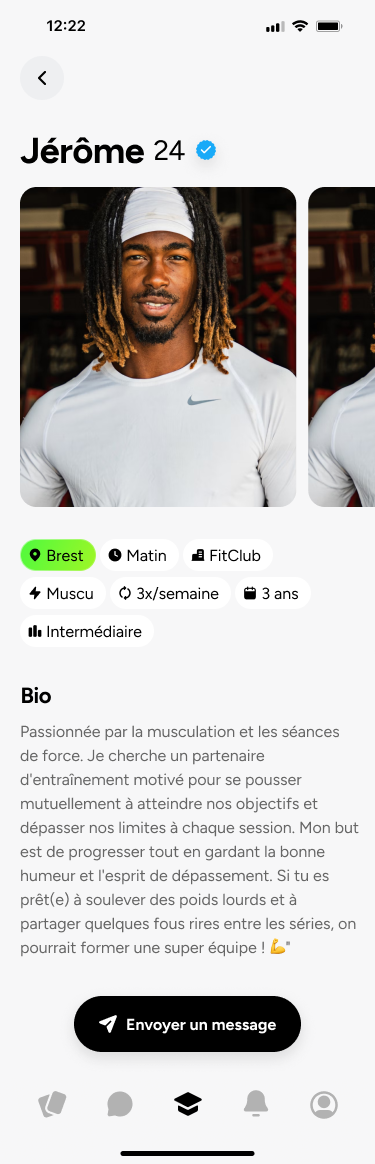
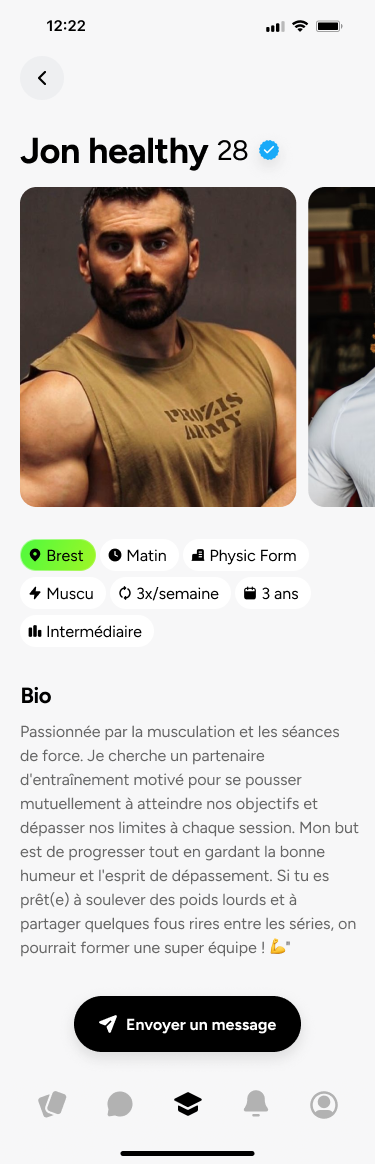
fix(site): correction z-index glassmorphism, mockup hero, adresse mentions légales
- z-index blobs passé à 1, contenu à 2 pour que backdrop-filter floute les blobs
- Fond arg-card réduit à 0.03 pour laisser passer la couleur des blobs
- Mockup hero remplacé par mockup-intro.png
- Adresse ajoutée dans mentions légales (435 rue Lucie et Raymond Aubrac, Guipavas)
- Mockups coach mis à jour

Changed region(s): [[0.0293, 0.0928, 0.792, 0.433], [0.5573, 0.4639, 0.792, 0.4948]]

diff --git a/index.html b/index.html
@@ -64,7 +64,7 @@
     .hero-blob {
       position: absolute;
       pointer-events: none;
-      z-index: 0;
+      z-index: 1;
     }
     .hero-blob--1 {
       width: 500px; height: 500px;
@@ -107,7 +107,7 @@
 
     .hero-inner {
       position: relative;
-      z-index: 1;
+      z-index: 2;
       max-width: 1200px;
       width: 100%;
       display: flex;
@@ -438,7 +438,7 @@
     .section-blob {
       position: absolute;
       pointer-events: none;
-      z-index: 0;
+      z-index: 1;
     }
     .section--dark {
       position: relative;
@@ -446,7 +446,7 @@
     }
     .section--dark .section-inner {
       position: relative;
-      z-index: 1;
+      z-index: 2;
     }
 
     /* "Pourquoi MyGymBro" blobs — positioned UNDER the cards grid */
@@ -530,28 +530,26 @@
     .arg-card {
       padding: 32px 28px;
       border-radius: 20px;
-      background: rgba(255, 255, 255, 0.04);
-      border: 1px solid rgba(255, 255, 255, 0.15);
-      box-shadow: 0 8px 32px rgba(0, 0, 0, 0.3), inset 0 1px 0 rgba(255, 255, 255, 0.12);
+      background: rgba(255, 255, 255, 0.03);
+      border: 1px solid rgba(255, 255, 255, 0.12);
+      box-shadow: 0 8px 32px rgba(0, 0, 0, 0.25), inset 0 1px 0 rgba(255, 255, 255, 0.10);
       transition: transform 0.3s, box-shadow 0.3s, border-color 0.3s;
-      position: relative;
-      z-index: 1;
     }
     @supports (backdrop-filter: blur(1px)) {
       .arg-card {
-        backdrop-filter: blur(16px) saturate(160%);
-        -webkit-backdrop-filter: blur(16px) saturate(160%);
+        backdrop-filter: blur(16px) saturate(150%);
+        -webkit-backdrop-filter: blur(16px) saturate(150%);
       }
     }
     @supports not (backdrop-filter: blur(1px)) {
       .arg-card {
-        background: rgba(30, 30, 30, 0.92);
+        background: rgba(30, 30, 30, 0.90);
       }
     }
     .arg-card:hover {
+      border-color: rgba(255, 255, 255, 0.22);
+      background: rgba(255, 255, 255, 0.05);
       transform: translateY(-4px) scale(1.02);
-      border-color: rgba(255, 255, 255, 0.25);
-      box-shadow: 0 8px 32px rgba(0, 0, 0, 0.3), 0 0 20px rgba(50, 205, 50, 0.08), inset 0 1px 0 rgba(255, 255, 255, 0.15);
     }
     .arg-icon {
       width: 48px;
@@ -667,7 +665,7 @@
       justify-content: center;
       gap: 60px;
       position: relative;
-      z-index: 1;
+      z-index: 2;
     }
     .cta-text {
       max-width: 480px;
@@ -829,6 +827,9 @@
             </a>
             <p class="beta-note">Actuellement en bêta fermée — places limitées</p>
           </div>
+        </div>
+        <div class="hero-mockup">
+          <img src="assets/mockup-intro.png" alt="Écran d'accueil MyGymBro" width="560" height="1120">
         </div>
       </div>
     </section>

diff --git a/mentions-legales.html b/mentions-legales.html
@@ -39,7 +39,7 @@
     <h2>1. Éditeur</h2>
     <p><strong>Nom</strong> : Fabian Schmidt</p>
     <p><strong>Statut</strong> : Personne physique</p>
-    <p><strong>Adresse</strong> : ---</p>
+    <p><strong>Adresse</strong> : 435, rue Lucie et Raymond Aubrac 29490 Guipavas</p>
     <p><strong>E-mail</strong> : <a href="mailto:craftlabx@gmail.com">craftlabx@gmail.com</a></p>
 
     <h2>2. Directeur de la publication</h2>
